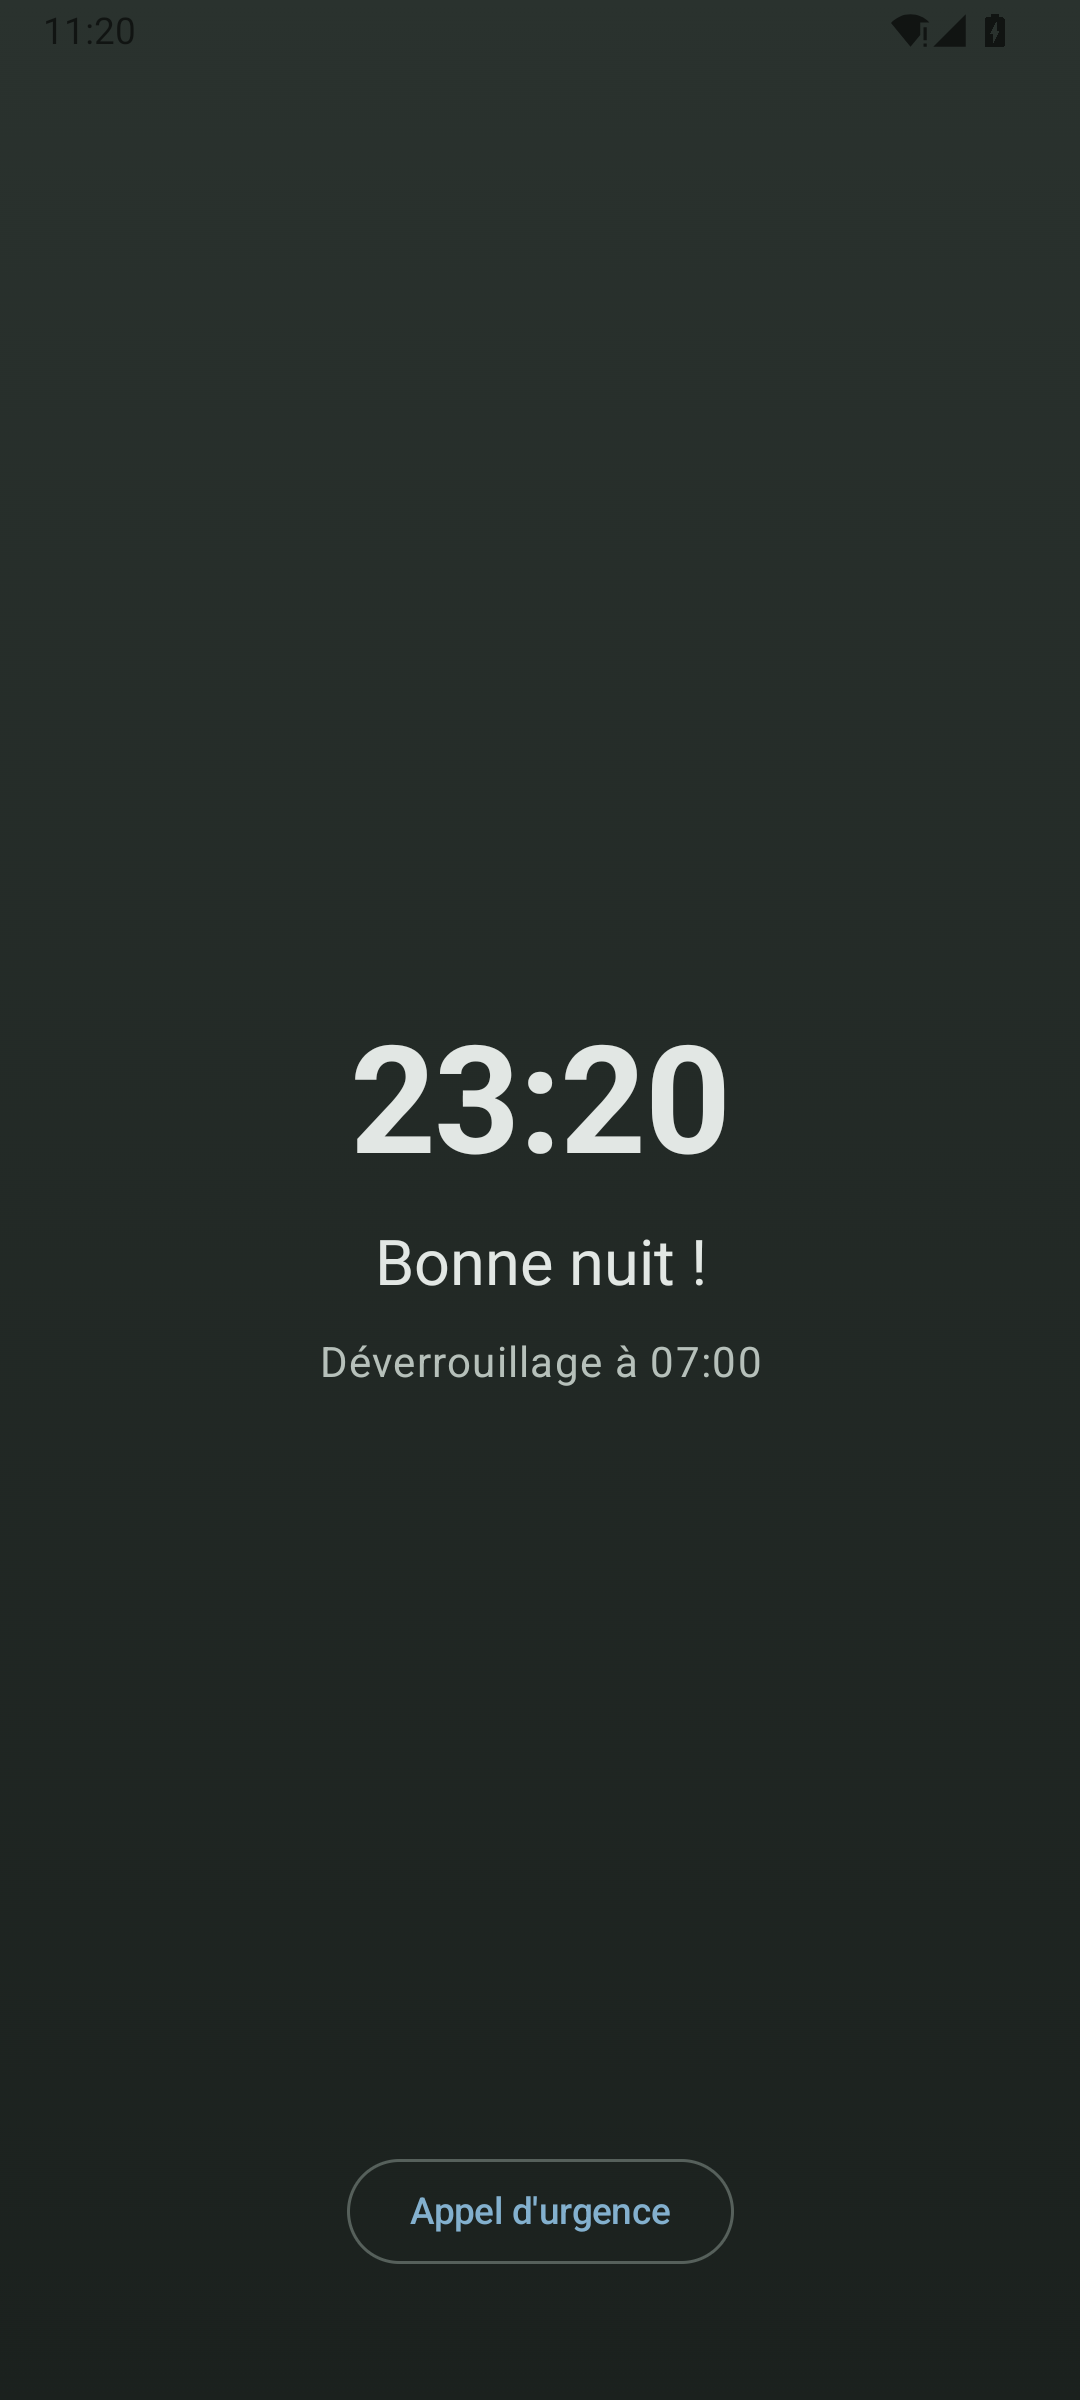
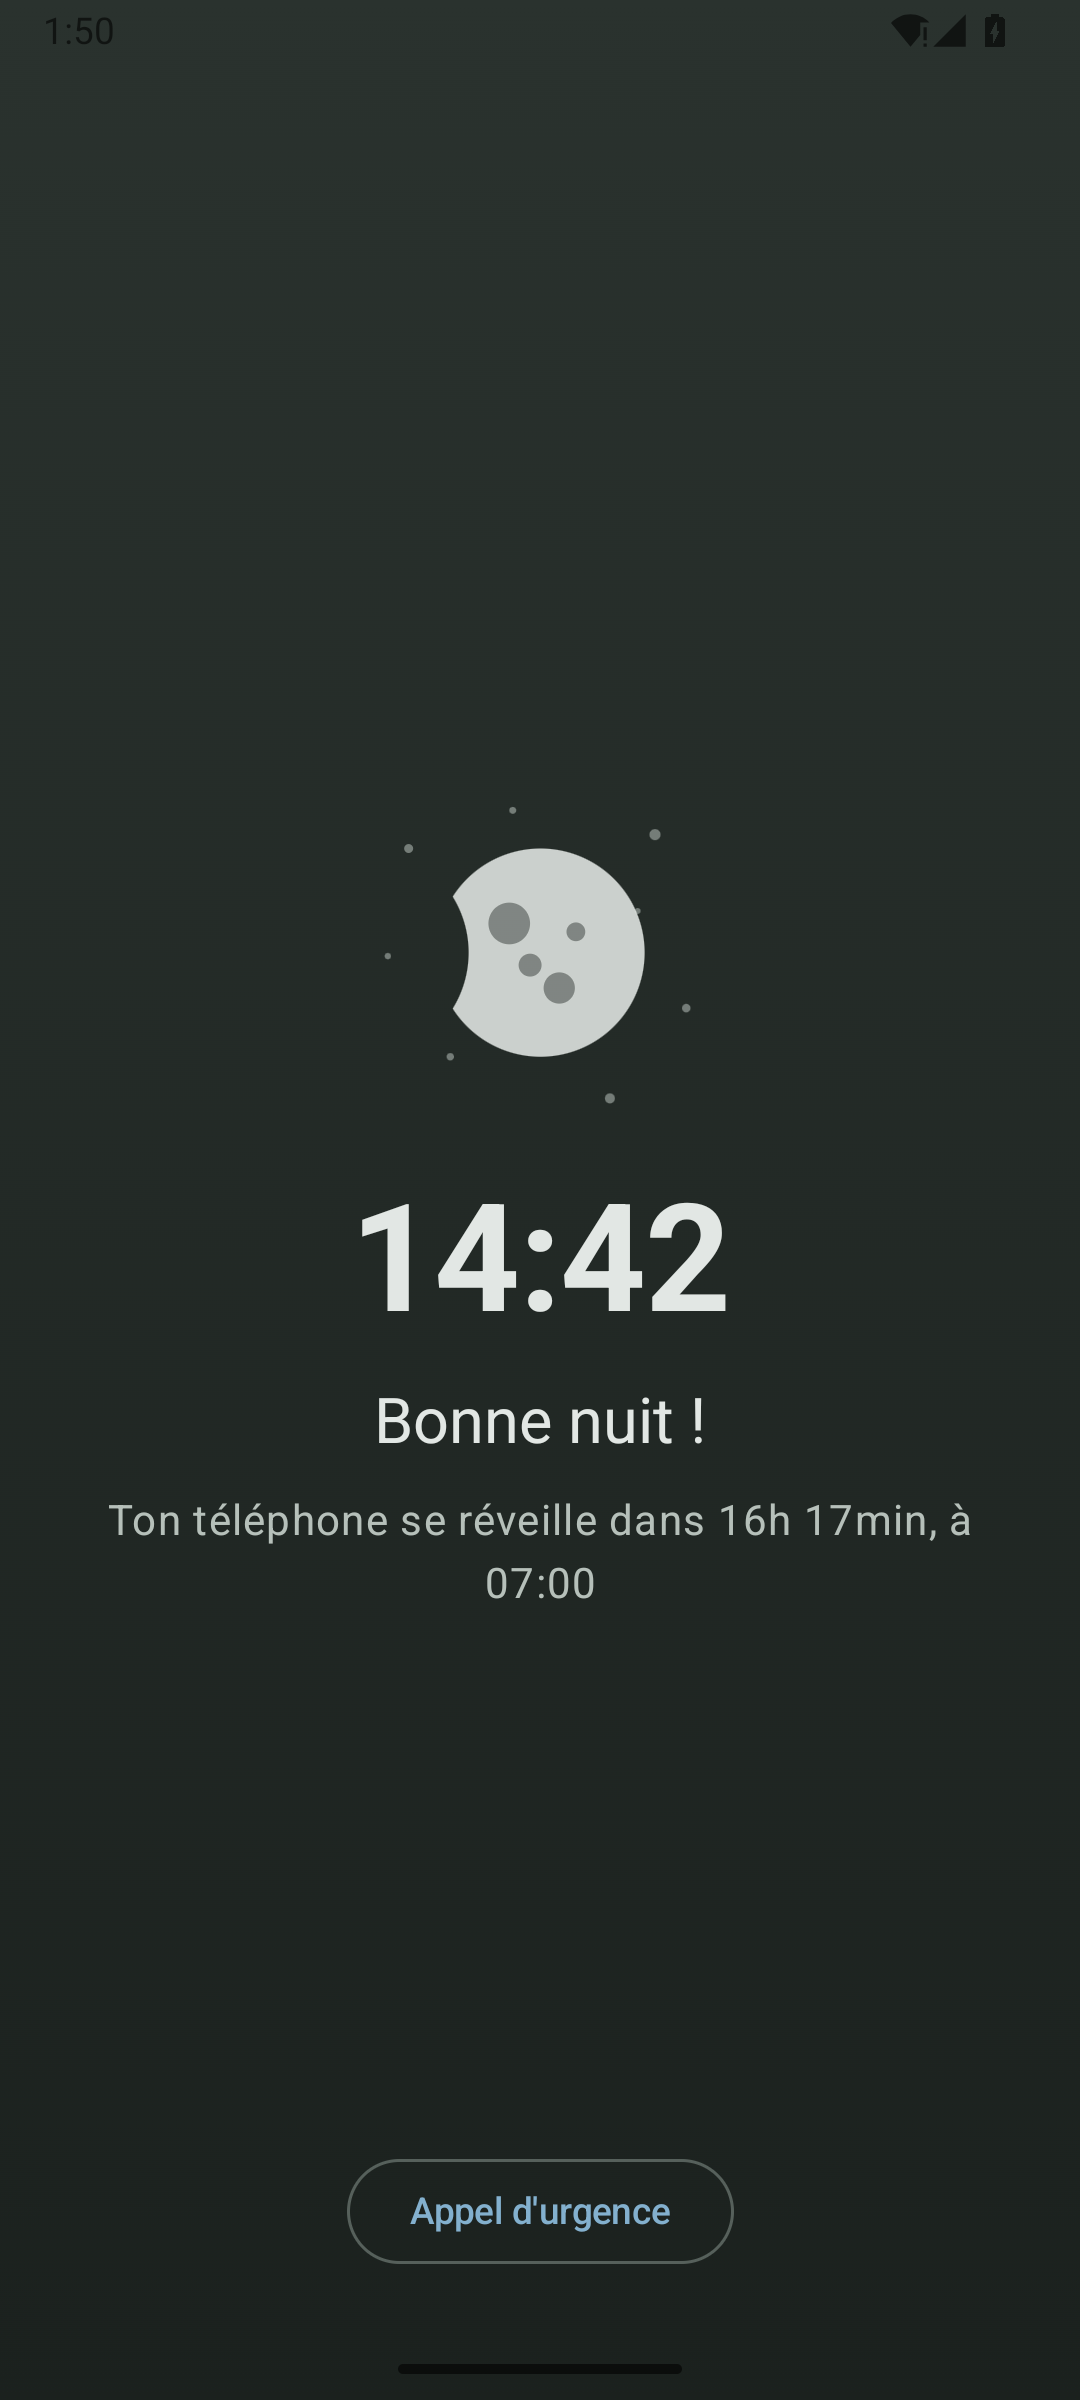
docs: bring the README up to what the app now does
Four days of changes had left it describing an older app. Now covered:

The child's side owns something. The greeting takes a name they choose and the
bedtime screen the moon they pick, both stored on their own phone and never sent
to the parent — said plainly, because the asymmetry is the point rather than an
implementation detail. The launcher's warmth (tiles arriving, a tint that follows
the hour) is described as tied to the clock and nothing else, so nobody reads it
as a reward scheme. And a partially restricted grid now says a parent chose, so a
short list of apps never looks like a broken phone.

Night lock: the real moon phase, the sky warming in the last three quarters of an
hour, and "wakes up in 7h 20min" before the clock time — with the reason stated,
that *how long* is the question a child actually has. Also that nothing on that
screen moves or can be tapped, which was a deliberate decision and not an
oversight.

The parent menu on the child's phone: reading it needs nothing, changing anything
needs the PIN, and with no PIN set those actions appear only while the phone is
unrestricted.

The parent's view: the Play Store is only reachable on the child's phone for ten
minutes after a parent asks, and an out-of-range child disables the controls that
need it — including that commands are not saved up to send later, which is the
part a parent would otherwise assume.

Enrolment: the pairing code and the download expire after five minutes.
[…]

diff --git a/README.md b/README.md
@@ -94,9 +94,20 @@ Anything a form cannot represent is listed as not editable rather than hidden.
 ### A home screen built for a child
 
 Not a cut-down admin console: a big clock, a greeting that follows the time of
-day, large rounded app tiles that respond to a press, and a small dot showing
-whether the parent's phone is nearby. Meant to feel normal for a child up to
-about 14 — friendly without being babyish.
+day, large rounded app tiles that arrive one after another, and a small dot
+showing whether the parent's phone is nearby. The background carries a faint
+warmth in the morning and cools off in the evening — tied to the clock and
+nothing else, so it can never read as a reward or a telling-off. Meant to feel
+normal for a child up to about 14: friendly without being babyish.
+
+**A little of it belongs to the child.** Tapping the greeting lets them say what
+the phone should call them, and pick the moon that shows on the bedtime screen.
+Both are stored on their own phone and are never sent to the parent — there is
+nothing there to approve, and nothing to take away as a consequence. The parent
+owns the rules; this is the part the child owns.
+
+If some apps are hidden, the grid says so and says a parent chose — so a short
+list of apps never looks like a broken phone.
 
 There is no visible lock button, deliberately. A parent unlocks by
 **long-pressing the header**, which opens the PIN pad. A child looking at the
@@ -105,9 +116,17 @@ screen finds nothing to poke at.
 ### Night lock — a bedtime the phone keeps on its own
 
 Set a bedtime window and the phone locks itself: no apps, just a quiet screen
-with the time and when it opens again. Separate windows for school nights and for
-Friday and Saturday, because those differ in most houses. The parent can also
-lock the phone **right now** from their own device.
+with the time, a moon, and how long is left. Separate windows for school nights
+and for Friday and Saturday, because those differ in most houses. The parent can
+also lock the phone **right now** from their own device.
+
+The moon is the real one for tonight — the actual phase, which a child can check
+against their window — and in the last three quarters of an hour the sky warms up
+and the stars fade, so morning arrives on its own rather than as a number counting
+down. The screen says "your phone wakes up in 7h 20min" before it says 07:00,
+because *how long* is the question a child actually has. Nothing on it moves or
+can be tapped: it is a screen for ending the evening, not another thing to play
+with.
 
 <div align="center">
 <img src="docs/images/parent-time-picker.png" width="245" alt="Setting the bedtime window">
@@ -148,6 +167,11 @@ From there a parent can pause child mode, or re-pair the phone to a different
 parent by scanning a fresh code — the way back if the parent's phone is lost,
 replaced, or reinstalled.
 
+Reading the menu needs nothing; changing anything needs the PIN. If no PIN has
+been set, those two actions appear only while the phone is not actually
+restricted, so a child cannot open the menu on a locked phone and simply pause it
+or point it at someone else's.
+
 <div align="center">
 <img src="docs/images/child-parent-menu.png" width="245" alt="The parent menu on the child's phone">
 </div>
@@ -158,7 +182,13 @@ Which apps are allowed, what the child is using right now, battery, when the
 phone was last seen, whether it is locked — with the controls to change any of it.
 Installing something new is done by name rather than by package id: type "Minecraft"
 and the child's Play Store opens on that search, so a parent never has to know
-what `com.mojang.minecraftpe` is.
+what `com.mojang.minecraftpe` is. The store is only reachable on the child's phone
+for ten minutes after a parent asks for it — otherwise it stays out of reach, so a
+link in an allowed app cannot become a way to install whatever they like.
+
+When the child's phone is out of range, the controls that need it are disabled and
+the page says so plainly, including the part that matters: commands are not saved
+up to send later.
 
 <div align="center">
 <img src="docs/images/parent-children.png" width="245" alt="The list of children">
@@ -205,7 +235,8 @@ rather serve the file yourself. Any of them does the same job.
 
 *The pairing code and Wi-Fi password are blurred in this screenshot on purpose —
 that code carries the shared secret, so treat the real one as sensitive while it
-is on screen.*
+is on screen.* It expires after five minutes, and the download is switched off with
+it, so a code left on a table stops being useful.
 
 And the same thing again with the traffic drawn in, for anyone who wants to know
 what their phones are actually saying to each other:
@@ -316,7 +347,10 @@ than useless:
   child's phone; someone still has to tap Install. Silent installation requires
   being a registered enterprise EMM.
 - **The BLE link is authenticated, not encrypted.** Messages cannot be forged or
-  replayed, but they are not confidential to someone sniffing the radio.
+  replayed, but they are not confidential to someone sniffing the radio — and the
+  parent PIN's hash is among the things that cross it when a PIN is set or changed.
+  The hash is PBKDF2-salted, but a four-digit PIN behind it is not much work for
+  someone determined.
 - **Physical access wins.** A factory reset removes the app entirely.
 
 ## Contributing

diff --git a/docs/images/README.md b/docs/images/README.md
@@ -19,8 +19,8 @@ is fully bilingual and that contrast is intentional.
 | `parent-pin.png` | Parent PIN screen in the "PIN already set" state (Change PIN / Remove PIN) — no digits shown. |
 | `parent-provision.png` | Provision screen after tapping "Show the code": steps 1–3 of the enrolment flow. **The QR code and Wi-Fi credentials are deliberately blurred** — that code carries the shared pairing secret. Keep them redacted in any re-capture. |
 | `child-launcher-allapps.png` | Kid launcher with child mode OFF: full app grid, big clock, time-of-day greeting, connection dot. |
-| `child-launcher-childmode.png` | Kid launcher with child mode ON: grid reduced to only the 5 parent-allowed apps. |
-| `child-bedtime.png` | Bedtime/complete-lock screen: "Bonne nuit !", "Déverrouillage à 07:00", no app tiles, and the explicit "Appel d'urgence" button. Captured inside a real 21:00→07:00 window. |
+| `child-launcher-childmode.png` | Kid launcher with child mode ON: grid reduced to the parent-allowed apps, a chosen name in the greeting, and the line saying how many apps are hidden. |
+| `child-bedtime.png` | Bedtime/complete-lock screen: tonight's real moon phase, "Bonne nuit !", how long is left before the time it unlocks, and the explicit "Appel d'urgence" button. Captured inside a real night window. |
 | `child-pin-dialog.png` | "Code PIN parental" dialog opened by long-pressing the header clock/greeting area — empty input field. |
 | `child-paused.png` | Launcher showing the "Mode enfant en pause" banner with "Menu" and "Reverrouiller" — during a pause every installed app is listed, not just the allowed ones. |
 | `child-parent-menu.png` | The parent menu on the child's phone: rules in force, the parent link, device facts, then Pause / Re-pair / Close. Reached by long-pressing the header and entering the PIN. |
